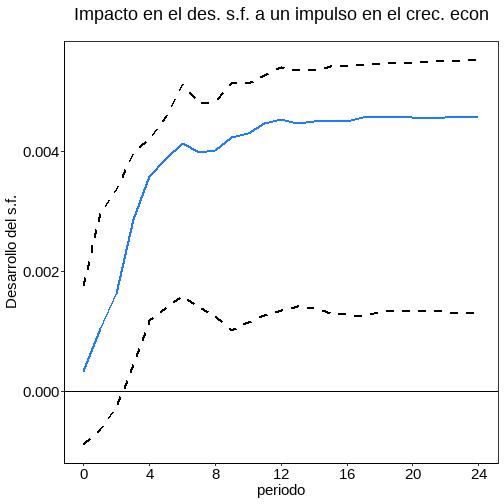
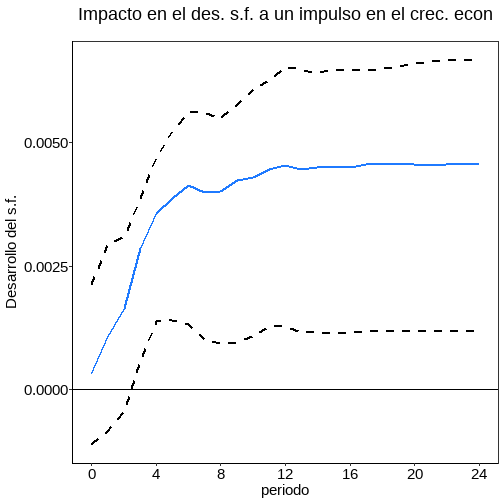
Actualizado el 5/1/2022

diff --git a/index.html b/index.html
@@ -41,7 +41,7 @@
 
 &lt;br&gt;
 
-&lt;p style="font-size:21pt; text-align:center; font-weight:bold"&gt; 
+&lt;p style="font-size:22pt; text-align:center; font-weight:bold"&gt; 
 
 Nexo entre crecimiento económico y desarrollo del sistema financiero: análisis de cointegración y series de tiempo para el caso de Costa Rica
 
@@ -49,7 +49,7 @@ Nexo entre crecimiento económico y desarrollo del sistema financiero: análisis
 
 &lt;br&gt;
 
-&lt;p style="font-size:21pt; text-align:center; font-weight:bold"&gt; 
+&lt;p style="font-size:18pt; text-align:center; font-weight:bold"&gt; 
 
 Trabajo final de investigación aplicada
 
@@ -57,7 +57,7 @@ Trabajo final de investigación aplicada
 
 &lt;br&gt;
 
-&lt;p style="font-size:21pt; text-align:center; font-weight:bold"&gt; 
+&lt;p style="font-size:18pt; text-align:center; font-weight:bold"&gt; 
 
 Posgrado en Estadística, Universidad de Costa Rica
 
@@ -65,7 +65,7 @@ Posgrado en Estadística, Universidad de Costa Rica
 
 &lt;br&gt;
 
-&lt;p style="font-size:21pt; text-align:center; font-weight:bold"&gt; 
+&lt;p style="font-size:18pt; text-align:center; font-weight:bold"&gt; 
 
 Estudiante: Fabián Brenes Trejos
 
@@ -73,7 +73,7 @@ Estudiante: Fabián Brenes Trejos
 
 &lt;br&gt;
 
-&lt;p style="font-size:21pt; text-align:center; font-weight:bold"&gt; 
+&lt;p style="font-size:18pt; text-align:center; font-weight:bold"&gt; 
 
 18/1/2022
 
@@ -117,8 +117,8 @@ class: inverse, center, middle
 
 .pull-right.w80[
 
-<div id="htmlwidget-925a281b201b351c2dd5" style="width:504px;height:400px;" class="grViz html-widget"></div>
-<script type="application/json" data-for="htmlwidget-925a281b201b351c2dd5">{"x":{"diagram":"digraph {\n  graph [layout = dot, rankdir = TB]\n  \n  node [shape = rectangle]        \n  rec1 [label = \"Imperfecciones de mercado\"]\n  rec2 [label = \"Mercados e intermediarios financieros\"]\n  rec3 [label =  \"Acumulación de capital\"]\n  rec4 [label = \"Innovación tecnológica\"]\n  rec5 [label = \"Crecimiento económico\"]\n  \n  # edge definitions with the node IDs\n  rec1 -> rec2 -> rec3 ; rec2 -> rec4; rec3 -> rec5; rec4 -> rec5 \n  }","config":{"engine":"dot","options":null}},"evals":[],"jsHooks":[]}</script>
+<div id="htmlwidget-ca953b2ce89cb85341ed" style="width:504px;height:400px;" class="grViz html-widget"></div>
+<script type="application/json" data-for="htmlwidget-ca953b2ce89cb85341ed">{"x":{"diagram":"digraph {\n  graph [layout = dot, rankdir = TB]\n  \n  node [shape = rectangle]        \n  rec1 [label = \"Imperfecciones de mercado\"]\n  rec2 [label = \"Mercados e intermediarios financieros\"]\n  rec3 [label =  \"Acumulación de capital\"]\n  rec4 [label = \"Innovación tecnológica\"]\n  rec5 [label = \"Crecimiento económico\"]\n  \n  # edge definitions with the node IDs\n  rec1 -> rec2 -> rec3 ; rec2 -> rec4; rec3 -> rec5; rec4 -> rec5 \n  }","config":{"engine":"dot","options":null}},"evals":[],"jsHooks":[]}</script>
 ]
 
 ---
@@ -139,14 +139,14 @@ class: inverse, center, middle
  
 --
 
-**¿Cuál es la relación entre el desarrollo del sistema financiero costarricense con respecto al crecimiento económico experimentado de 1997 a 2020?**
+**¿Cuál es la relación entre el desarrollo del sistema financiero costarricense con respecto al crecimiento económico experimentado de 2000 a 2020?**
 
 ---
 
 ## Objetivos
 
 ### General
-Estudiar la relación entre el desarrollo del sistema financiero y el crecimiento económico mediante modelos de series temporales multivariados, para el caso de Costa Rica, en el periodo 1997 - 2020.
+Estudiar la relación entre el desarrollo del sistema financiero y el crecimiento económico mediante modelos de series temporales multivariados, para el caso de Costa Rica, en el periodo 2000 - 2020.
 
 ### Específicos
 - .small[Conocer tendencias, valores atípicos y correlaciones mediante un análisis exploratorio.]
@@ -203,8 +203,8 @@ class: inverse, center, middle
 Cálculo: `\(log(PIB_t / PIB_{t-4})\)` 
 
 .pull-left.w60[
-<div id="htmlwidget-041003304e24d41058ee" style="width:432px;height:432px;" class="dygraphs html-widget"></div>
-<script type="application/json" data-for="htmlwidget-041003304e24d41058ee">{"x":{"attrs":{"axes":{"x":{"pixelsPerLabel":60,"drawGrid":false,"drawAxis":true},"y":{"drawGrid":false,"drawAxis":true}},"title":" ","labels":["quarter","Valor"],"legend":"auto","retainDateWindow":false,"xlabel":"Fecha","ylabel":"Crecimiento anual","colors":["#1f7aff","#1f7aff"],"series":{"Valor":{"axis":"y"}},"stackedGraph":false,"fillGraph":true,"fillAlpha":0.15,"stepPlot":false,"drawPoints":false,"pointSize":1,"drawGapEdgePoints":false,"connectSeparatedPoints":false,"strokeWidth":1,"strokeBorderColor":"white","colorValue":0.5,"colorSaturation":1,"includeZero":false,"drawAxesAtZero":false,"logscale":false,"axisTickSize":3,"axisLineColor":"black","axisLineWidth":1.5,"axisLabelColor":"black","axisLabelFontSize":14,"axisLabelWidth":60,"drawGrid":false,"gridLineWidth":0.3,"rightGap":5,"digitsAfterDecimal":2,"labelsKMB":false,"labelsKMG2":false,"labelsUTC":false,"maxNumberWidth":6,"animatedZooms":false,"mobileDisableYTouch":true,"disableZoom":false},"scale":"quarterly","annotations":[],"shadings":[],"events":[],"format":"date","data":[["2000-03-01T06:00:00.000Z","2000-06-01T06:00:00.000Z","2000-09-01T06:00:00.000Z","2000-12-01T06:00:00.000Z","2001-03-01T06:00:00.000Z","2001-06-01T06:00:00.000Z","2001-09-01T06:00:00.000Z","2001-12-01T06:00:00.000Z","2002-03-01T06:00:00.000Z","2002-06-01T06:00:00.000Z","2002-09-01T06:00:00.000Z","2002-12-01T06:00:00.000Z","2003-03-01T06:00:00.000Z","2003-06-01T06:00:00.000Z","2003-09-01T06:00:00.000Z","2003-12-01T06:00:00.000Z","2004-03-01T06:00:00.000Z","2004-06-01T06:00:00.000Z","2004-09-01T06:00:00.000Z","2004-12-01T06:00:00.000Z","2005-03-01T06:00:00.000Z","2005-06-01T06:00:00.000Z","2005-09-01T06:00:00.000Z","2005-12-01T06:00:00.000Z","2006-03-01T06:00:00.000Z","2006-06-01T05:00:00.000Z","2006-09-01T05:00:00.000Z","2006-12-01T06:00:00.000Z","2007-03-01T06:00:00.000Z","2007-06-01T06:00:00.000Z","2007-09-01T06:00:00.000Z","2007-12-01T06:00:00.000Z","2008-03-01T06:00:00.000Z","2008-06-01T06:00:00.000Z","2008-09-01T06:00:00.000Z","2008-12-01T06:00:00.000Z","2009-03-01T06:00:00.000Z","2009-06-01T06:00:00.000Z","2009-09-01T06:00:00.000Z","2009-12-01T06:00:00.000Z","2010-03-01T06:00:00.000Z","2010-06-01T06:00:00.000Z","2010-09-01T06:00:00.000Z","2010-12-01T06:00:00.000Z","2011-03-01T06:00:00.000Z","2011-06-01T06:00:00.000Z","2011-09-01T06:00:00.000Z","2011-12-01T06:00:00.000Z","2012-03-01T06:00:00.000Z","2012-06-01T06:00:00.000Z","2012-09-01T06:00:00.000Z","2012-12-01T06:00:00.000Z","2013-03-01T06:00:00.000Z","2013-06-01T06:00:00.000Z","2013-09-01T06:00:00.000Z","2013-12-01T06:00:00.000Z","2014-03-01T06:00:00.000Z","2014-06-01T06:00:00.000Z","2014-09-01T06:00:00.000Z","2014-12-01T06:00:00.000Z","2015-03-01T06:00:00.000Z","2015-06-01T06:00:00.000Z","2015-09-01T06:00:00.000Z","2015-12-01T06:00:00.000Z","2016-03-01T06:00:00.000Z","2016-06-01T06:00:00.000Z","2016-09-01T06:00:00.000Z","2016-12-01T06:00:00.000Z","2017-03-01T06:00:00.000Z","2017-06-01T06:00:00.000Z","2017-09-01T06:00:00.000Z","2017-12-01T06:00:00.000Z","2018-03-01T06:00:00.000Z","2018-06-01T06:00:00.000Z","2018-09-01T06:00:00.000Z","2018-12-01T06:00:00.000Z","2019-03-01T06:00:00.000Z","2019-06-01T06:00:00.000Z","2019-09-01T06:00:00.000Z","2019-12-01T06:00:00.000Z","2020-03-01T06:00:00.000Z","2020-06-01T06:00:00.000Z","2020-09-01T06:00:00.000Z","2020-12-01T06:00:00.000Z"],[0.0555031328497311,0.0340852651574372,0.0375225327601561,0.0250605058163897,0.0305712134029142,0.0360381827709156,0.0391086906519189,0.031920105662411,0.00944224898111074,0.0533996327676026,0.0379722624486041,0.0342773047916323,0.0512252051974938,0.0288064696455793,0.0423382613218026,0.0462223823596372,0.0448958386408601,0.0489176319677601,0.0389371482384529,0.0406086418035914,0.0236391484208017,0.0436987024960679,0.0452005497014935,0.043398091883498,0.0638826021509344,0.0596310455812643,0.0731398638011879,0.0849917859982343,0.0876020166145917,0.0889585499187627,0.0777855699677044,0.0627597471776392,0.0646850053131477,0.060741457403565,0.04683152754354,0.0141960732362769,-0.0216369424545055,-0.0248331020006494,-0.00685646139237853,0.0172818776152933,0.0512647674300891,0.0555979835930916,0.0560996880837821,0.0462560184101844,0.0427355796542678,0.0475105056149485,0.0382786651247894,0.0438139201946073,0.0643471483405367,0.0403375989767419,0.0442464535702716,0.0417307351703003,0.0116326467345857,0.0286239157923818,0.0332164119859926,0.0253310136427856,0.0447508753389382,0.0298930426970194,0.0303761361229909,0.0340552001539391,0.0211751209342673,0.0452790002670581,0.0469954676287476,0.0304633892760415,0.0425773580734688,0.0381303562566744,0.0344433098394769,0.0492527614234394,0.0452467110585429,0.047970196902605,0.0326403071550246,0.0371904372386399,0.0250298392705319,0.034071678325828,0.0225143885724031,0.000273574581100232,0.0205900808356099,0.00495792814088276,0.0192870289637419,0.040480732091904,0.00973491773381993,-0.0877811993952369,-0.0656499657080423,-0.0277586484455974]],"fixedtz":false,"tzone":""},"evals":[],"jsHooks":[]}</script>
+<div id="htmlwidget-abd5bf937ab78f9f2e94" style="width:432px;height:432px;" class="dygraphs html-widget"></div>
+<script type="application/json" data-for="htmlwidget-abd5bf937ab78f9f2e94">{"x":{"attrs":{"axes":{"x":{"pixelsPerLabel":60,"drawGrid":false,"drawAxis":true},"y":{"drawGrid":false,"drawAxis":true}},"title":" ","labels":["quarter","Valor"],"legend":"auto","retainDateWindow":false,"xlabel":"Fecha","ylabel":"Crecimiento anual","colors":["#1f7aff","#1f7aff"],"series":{"Valor":{"axis":"y"}},"stackedGraph":false,"fillGraph":true,"fillAlpha":0.15,"stepPlot":false,"drawPoints":false,"pointSize":1,"drawGapEdgePoints":false,"connectSeparatedPoints":false,"strokeWidth":1,"strokeBorderColor":"white","colorValue":0.5,"colorSaturation":1,"includeZero":false,"drawAxesAtZero":false,"logscale":false,"axisTickSize":3,"axisLineColor":"black","axisLineWidth":1.5,"axisLabelColor":"black","axisLabelFontSize":14,"axisLabelWidth":60,"drawGrid":false,"gridLineWidth":0.3,"rightGap":5,"digitsAfterDecimal":2,"labelsKMB":false,"labelsKMG2":false,"labelsUTC":false,"maxNumberWidth":6,"animatedZooms":false,"mobileDisableYTouch":true,"disableZoom":false},"scale":"quarterly","annotations":[],"shadings":[],"events":[],"format":"date","data":[["2000-03-01T06:00:00.000Z","2000-06-01T06:00:00.000Z","2000-09-01T06:00:00.000Z","2000-12-01T06:00:00.000Z","2001-03-01T06:00:00.000Z","2001-06-01T06:00:00.000Z","2001-09-01T06:00:00.000Z","2001-12-01T06:00:00.000Z","2002-03-01T06:00:00.000Z","2002-06-01T06:00:00.000Z","2002-09-01T06:00:00.000Z","2002-12-01T06:00:00.000Z","2003-03-01T06:00:00.000Z","2003-06-01T06:00:00.000Z","2003-09-01T06:00:00.000Z","2003-12-01T06:00:00.000Z","2004-03-01T06:00:00.000Z","2004-06-01T06:00:00.000Z","2004-09-01T06:00:00.000Z","2004-12-01T06:00:00.000Z","2005-03-01T06:00:00.000Z","2005-06-01T06:00:00.000Z","2005-09-01T06:00:00.000Z","2005-12-01T06:00:00.000Z","2006-03-01T06:00:00.000Z","2006-06-01T05:00:00.000Z","2006-09-01T05:00:00.000Z","2006-12-01T06:00:00.000Z","2007-03-01T06:00:00.000Z","2007-06-01T06:00:00.000Z","2007-09-01T06:00:00.000Z","2007-12-01T06:00:00.000Z","2008-03-01T06:00:00.000Z","2008-06-01T06:00:00.000Z","2008-09-01T06:00:00.000Z","2008-12-01T06:00:00.000Z","2009-03-01T06:00:00.000Z","2009-06-01T06:00:00.000Z","2009-09-01T06:00:00.000Z","2009-12-01T06:00:00.000Z","2010-03-01T06:00:00.000Z","2010-06-01T06:00:00.000Z","2010-09-01T06:00:00.000Z","2010-12-01T06:00:00.000Z","2011-03-01T06:00:00.000Z","2011-06-01T06:00:00.000Z","2011-09-01T06:00:00.000Z","2011-12-01T06:00:00.000Z","2012-03-01T06:00:00.000Z","2012-06-01T06:00:00.000Z","2012-09-01T06:00:00.000Z","2012-12-01T06:00:00.000Z","2013-03-01T06:00:00.000Z","2013-06-01T06:00:00.000Z","2013-09-01T06:00:00.000Z","2013-12-01T06:00:00.000Z","2014-03-01T06:00:00.000Z","2014-06-01T06:00:00.000Z","2014-09-01T06:00:00.000Z","2014-12-01T06:00:00.000Z","2015-03-01T06:00:00.000Z","2015-06-01T06:00:00.000Z","2015-09-01T06:00:00.000Z","2015-12-01T06:00:00.000Z","2016-03-01T06:00:00.000Z","2016-06-01T06:00:00.000Z","2016-09-01T06:00:00.000Z","2016-12-01T06:00:00.000Z","2017-03-01T06:00:00.000Z","2017-06-01T06:00:00.000Z","2017-09-01T06:00:00.000Z","2017-12-01T06:00:00.000Z","2018-03-01T06:00:00.000Z","2018-06-01T06:00:00.000Z","2018-09-01T06:00:00.000Z","2018-12-01T06:00:00.000Z","2019-03-01T06:00:00.000Z","2019-06-01T06:00:00.000Z","2019-09-01T06:00:00.000Z","2019-12-01T06:00:00.000Z","2020-03-01T06:00:00.000Z","2020-06-01T06:00:00.000Z","2020-09-01T06:00:00.000Z","2020-12-01T06:00:00.000Z"],[0.0555031328497311,0.0340852651574372,0.0375225327601561,0.0250605058163897,0.0305712134029142,0.0360381827709156,0.0391086906519189,0.031920105662411,0.00944224898111074,0.0533996327676026,0.0379722624486041,0.0342773047916323,0.0512252051974938,0.0288064696455793,0.0423382613218026,0.0462223823596372,0.0448958386408601,0.0489176319677601,0.0389371482384529,0.0406086418035914,0.0236391484208017,0.0436987024960679,0.0452005497014935,0.043398091883498,0.0638826021509344,0.0596310455812643,0.0731398638011879,0.0849917859982343,0.0876020166145917,0.0889585499187627,0.0777855699677044,0.0627597471776392,0.0646850053131477,0.060741457403565,0.04683152754354,0.0141960732362769,-0.0216369424545055,-0.0248331020006494,-0.00685646139237853,0.0172818776152933,0.0512647674300891,0.0555979835930916,0.0560996880837821,0.0462560184101844,0.0427355796542678,0.0475105056149485,0.0382786651247894,0.0438139201946073,0.0643471483405367,0.0403375989767419,0.0442464535702716,0.0417307351703003,0.0116326467345857,0.0286239157923818,0.0332164119859926,0.0253310136427856,0.0447508753389382,0.0298930426970194,0.0303761361229909,0.0340552001539391,0.0211751209342673,0.0452790002670581,0.0469954676287476,0.0304633892760415,0.0425773580734688,0.0381303562566744,0.0344433098394769,0.0492527614234394,0.0452467110585429,0.047970196902605,0.0326403071550246,0.0371904372386399,0.0250298392705319,0.034071678325828,0.0225143885724031,0.000273574581100232,0.0205900808356099,0.00495792814088276,0.0192870289637419,0.040480732091904,0.00973491773381993,-0.0877811993952369,-0.0656499657080423,-0.0277586484455974]],"fixedtz":false,"tzone":""},"evals":[],"jsHooks":[]}</script>
 ]
 
 .pull-right.w40[
@@ -273,8 +273,8 @@ Cálculo: `\(log(PIB_t / PIB_{t-4})\)`
 Cálculo: `\(\mbox{Créditos al sector privado no financiero} / \mbox{PIB nominal}\)`
 
 .pull-left.w60[
-<div id="htmlwidget-6d1871bc19447a92a60e" style="width:432px;height:432px;" class="dygraphs html-widget"></div>
-<script type="application/json" data-for="htmlwidget-6d1871bc19447a92a60e">{"x":{"attrs":{"axes":{"x":{"pixelsPerLabel":60,"drawGrid":false,"drawAxis":true},"y":{"drawGrid":false,"drawAxis":true}},"title":" ","labels":["quarter","Valor"],"legend":"auto","retainDateWindow":false,"xlabel":"Fecha","ylabel":"Términos del PIB","colors":["#1f7aff","#1f7aff"],"series":{"Valor":{"axis":"y"}},"stackedGraph":false,"fillGraph":true,"fillAlpha":0.15,"stepPlot":false,"drawPoints":false,"pointSize":1,"drawGapEdgePoints":false,"connectSeparatedPoints":false,"strokeWidth":1,"strokeBorderColor":"white","colorValue":0.5,"colorSaturation":1,"includeZero":false,"drawAxesAtZero":false,"logscale":false,"axisTickSize":3,"axisLineColor":"black","axisLineWidth":1.5,"axisLabelColor":"black","axisLabelFontSize":14,"axisLabelWidth":60,"drawGrid":false,"gridLineWidth":0.3,"rightGap":5,"digitsAfterDecimal":2,"labelsKMB":false,"labelsKMG2":false,"labelsUTC":false,"maxNumberWidth":6,"animatedZooms":false,"mobileDisableYTouch":true,"disableZoom":false},"scale":"quarterly","annotations":[],"shadings":[],"events":[],"format":"date","data":[["2000-03-01T06:00:00.000Z","2000-06-01T06:00:00.000Z","2000-09-01T06:00:00.000Z","2000-12-01T06:00:00.000Z","2001-03-01T06:00:00.000Z","2001-06-01T06:00:00.000Z","2001-09-01T06:00:00.000Z","2001-12-01T06:00:00.000Z","2002-03-01T06:00:00.000Z","2002-06-01T06:00:00.000Z","2002-09-01T06:00:00.000Z","2002-12-01T06:00:00.000Z","2003-03-01T06:00:00.000Z","2003-06-01T06:00:00.000Z","2003-09-01T06:00:00.000Z","2003-12-01T06:00:00.000Z","2004-03-01T06:00:00.000Z","2004-06-01T06:00:00.000Z","2004-09-01T06:00:00.000Z","2004-12-01T06:00:00.000Z","2005-03-01T06:00:00.000Z","2005-06-01T06:00:00.000Z","2005-09-01T06:00:00.000Z","2005-12-01T06:00:00.000Z","2006-03-01T06:00:00.000Z","2006-06-01T05:00:00.000Z","2006-09-01T05:00:00.000Z","2006-12-01T06:00:00.000Z","2007-03-01T06:00:00.000Z","2007-06-01T06:00:00.000Z","2007-09-01T06:00:00.000Z","2007-12-01T06:00:00.000Z","2008-03-01T06:00:00.000Z","2008-06-01T06:00:00.000Z","2008-09-01T06:00:00.000Z","2008-12-01T06:00:00.000Z","2009-03-01T06:00:00.000Z","2009-06-01T06:00:00.000Z","2009-09-01T06:00:00.000Z","2009-12-01T06:00:00.000Z","2010-03-01T06:00:00.000Z","2010-06-01T06:00:00.000Z","2010-09-01T06:00:00.000Z","2010-12-01T06:00:00.000Z","2011-03-01T06:00:00.000Z","2011-06-01T06:00:00.000Z","2011-09-01T06:00:00.000Z","2011-12-01T06:00:00.000Z","2012-03-01T06:00:00.000Z","2012-06-01T06:00:00.000Z","2012-09-01T06:00:00.000Z","2012-12-01T06:00:00.000Z","2013-03-01T06:00:00.000Z","2013-06-01T06:00:00.000Z","2013-09-01T06:00:00.000Z","2013-12-01T06:00:00.000Z","2014-03-01T06:00:00.000Z","2014-06-01T06:00:00.000Z","2014-09-01T06:00:00.000Z","2014-12-01T06:00:00.000Z","2015-03-01T06:00:00.000Z","2015-06-01T06:00:00.000Z","2015-09-01T06:00:00.000Z","2015-12-01T06:00:00.000Z","2016-03-01T06:00:00.000Z","2016-06-01T06:00:00.000Z","2016-09-01T06:00:00.000Z","2016-12-01T06:00:00.000Z","2017-03-01T06:00:00.000Z","2017-06-01T06:00:00.000Z","2017-09-01T06:00:00.000Z","2017-12-01T06:00:00.000Z","2018-03-01T06:00:00.000Z","2018-06-01T06:00:00.000Z","2018-09-01T06:00:00.000Z","2018-12-01T06:00:00.000Z","2019-03-01T06:00:00.000Z","2019-06-01T06:00:00.000Z","2019-09-01T06:00:00.000Z","2019-12-01T06:00:00.000Z","2020-03-01T06:00:00.000Z","2020-06-01T06:00:00.000Z","2020-09-01T06:00:00.000Z","2020-12-01T06:00:00.000Z"],[0.230378648075666,0.237973453308749,0.242977159790301,0.2568427499582,0.258572611798459,0.260011496149267,0.267181927915628,0.280375921723559,0.287870727314153,0.290839654180241,0.294797991840939,0.301863107027012,0.302392439868491,0.299575118755793,0.302325377012957,0.313561801792717,0.30628105943671,0.307754654854595,0.311237113879137,0.314771631837043,0.316900039574181,0.324859939460102,0.335317063398018,0.349556386205428,0.347815681806583,0.35247477156393,0.361181281915219,0.370794818649053,0.373747922006069,0.385333719174933,0.403649557210522,0.42990212027872,0.435399967056724,0.452513379116934,0.467316096193382,0.484733676800351,0.47645602879295,0.474823686545473,0.475323762546019,0.465467826099637,0.434626746793206,0.433092772935486,0.424783176320921,0.432767742402862,0.427216072587495,0.431667810013627,0.443917313503859,0.448028434357952,0.446375459317764,0.447367043340583,0.453110146826016,0.465073382166462,0.460445656125026,0.462495289561365,0.470288451028715,0.487248712857523,0.507749725077048,0.511096074567346,0.512698016310646,0.52087022727588,0.51796365008433,0.521369383602982,0.529591696521589,0.540840216224972,0.540961639840296,0.554790276579621,0.565316224888378,0.574100129259365,0.57567679489889,0.583557930022849,0.581535312834093,0.581068532849791,0.572532021907671,0.56973769258699,0.578734231290818,0.58849367843833,0.575042233017076,0.562586277073408,0.555495134972149,0.550263733401138,0.552836520423679,0.562583413080146,0.578584905313051,0.588884101766211]],"fixedtz":false,"tzone":""},"evals":[],"jsHooks":[]}</script>
+<div id="htmlwidget-add6f032cd56900fe8ea" style="width:432px;height:432px;" class="dygraphs html-widget"></div>
+<script type="application/json" data-for="htmlwidget-add6f032cd56900fe8ea">{"x":{"attrs":{"axes":{"x":{"pixelsPerLabel":60,"drawGrid":false,"drawAxis":true},"y":{"drawGrid":false,"drawAxis":true}},"title":" ","labels":["quarter","Valor"],"legend":"auto","retainDateWindow":false,"xlabel":"Fecha","ylabel":"Términos del PIB","colors":["#1f7aff","#1f7aff"],"series":{"Valor":{"axis":"y"}},"stackedGraph":false,"fillGraph":true,"fillAlpha":0.15,"stepPlot":false,"drawPoints":false,"pointSize":1,"drawGapEdgePoints":false,"connectSeparatedPoints":false,"strokeWidth":1,"strokeBorderColor":"white","colorValue":0.5,"colorSaturation":1,"includeZero":false,"drawAxesAtZero":false,"logscale":false,"axisTickSize":3,"axisLineColor":"black","axisLineWidth":1.5,"axisLabelColor":"black","axisLabelFontSize":14,"axisLabelWidth":60,"drawGrid":false,"gridLineWidth":0.3,"rightGap":5,"digitsAfterDecimal":2,"labelsKMB":false,"labelsKMG2":false,"labelsUTC":false,"maxNumberWidth":6,"animatedZooms":false,"mobileDisableYTouch":true,"disableZoom":false},"scale":"quarterly","annotations":[],"shadings":[],"events":[],"format":"date","data":[["2000-03-01T06:00:00.000Z","2000-06-01T06:00:00.000Z","2000-09-01T06:00:00.000Z","2000-12-01T06:00:00.000Z","2001-03-01T06:00:00.000Z","2001-06-01T06:00:00.000Z","2001-09-01T06:00:00.000Z","2001-12-01T06:00:00.000Z","2002-03-01T06:00:00.000Z","2002-06-01T06:00:00.000Z","2002-09-01T06:00:00.000Z","2002-12-01T06:00:00.000Z","2003-03-01T06:00:00.000Z","2003-06-01T06:00:00.000Z","2003-09-01T06:00:00.000Z","2003-12-01T06:00:00.000Z","2004-03-01T06:00:00.000Z","2004-06-01T06:00:00.000Z","2004-09-01T06:00:00.000Z","2004-12-01T06:00:00.000Z","2005-03-01T06:00:00.000Z","2005-06-01T06:00:00.000Z","2005-09-01T06:00:00.000Z","2005-12-01T06:00:00.000Z","2006-03-01T06:00:00.000Z","2006-06-01T05:00:00.000Z","2006-09-01T05:00:00.000Z","2006-12-01T06:00:00.000Z","2007-03-01T06:00:00.000Z","2007-06-01T06:00:00.000Z","2007-09-01T06:00:00.000Z","2007-12-01T06:00:00.000Z","2008-03-01T06:00:00.000Z","2008-06-01T06:00:00.000Z","2008-09-01T06:00:00.000Z","2008-12-01T06:00:00.000Z","2009-03-01T06:00:00.000Z","2009-06-01T06:00:00.000Z","2009-09-01T06:00:00.000Z","2009-12-01T06:00:00.000Z","2010-03-01T06:00:00.000Z","2010-06-01T06:00:00.000Z","2010-09-01T06:00:00.000Z","2010-12-01T06:00:00.000Z","2011-03-01T06:00:00.000Z","2011-06-01T06:00:00.000Z","2011-09-01T06:00:00.000Z","2011-12-01T06:00:00.000Z","2012-03-01T06:00:00.000Z","2012-06-01T06:00:00.000Z","2012-09-01T06:00:00.000Z","2012-12-01T06:00:00.000Z","2013-03-01T06:00:00.000Z","2013-06-01T06:00:00.000Z","2013-09-01T06:00:00.000Z","2013-12-01T06:00:00.000Z","2014-03-01T06:00:00.000Z","2014-06-01T06:00:00.000Z","2014-09-01T06:00:00.000Z","2014-12-01T06:00:00.000Z","2015-03-01T06:00:00.000Z","2015-06-01T06:00:00.000Z","2015-09-01T06:00:00.000Z","2015-12-01T06:00:00.000Z","2016-03-01T06:00:00.000Z","2016-06-01T06:00:00.000Z","2016-09-01T06:00:00.000Z","2016-12-01T06:00:00.000Z","2017-03-01T06:00:00.000Z","2017-06-01T06:00:00.000Z","2017-09-01T06:00:00.000Z","2017-12-01T06:00:00.000Z","2018-03-01T06:00:00.000Z","2018-06-01T06:00:00.000Z","2018-09-01T06:00:00.000Z","2018-12-01T06:00:00.000Z","2019-03-01T06:00:00.000Z","2019-06-01T06:00:00.000Z","2019-09-01T06:00:00.000Z","2019-12-01T06:00:00.000Z","2020-03-01T06:00:00.000Z","2020-06-01T06:00:00.000Z","2020-09-01T06:00:00.000Z","2020-12-01T06:00:00.000Z"],[0.230378648075666,0.237973453308749,0.242977159790301,0.2568427499582,0.258572611798459,0.260011496149267,0.267181927915628,0.280375921723559,0.287870727314153,0.290839654180241,0.294797991840939,0.301863107027012,0.302392439868491,0.299575118755793,0.302325377012957,0.313561801792717,0.30628105943671,0.307754654854595,0.311237113879137,0.314771631837043,0.316900039574181,0.324859939460102,0.335317063398018,0.349556386205428,0.347815681806583,0.35247477156393,0.361181281915219,0.370794818649053,0.373747922006069,0.385333719174933,0.403649557210522,0.42990212027872,0.435399967056724,0.452513379116934,0.467316096193382,0.484733676800351,0.47645602879295,0.474823686545473,0.475323762546019,0.465467826099637,0.434626746793206,0.433092772935486,0.424783176320921,0.432767742402862,0.427216072587495,0.431667810013627,0.443917313503859,0.448028434357952,0.446375459317764,0.447367043340583,0.453110146826016,0.465073382166462,0.460445656125026,0.462495289561365,0.470288451028715,0.487248712857523,0.507749725077048,0.511096074567346,0.512698016310646,0.52087022727588,0.51796365008433,0.521369383602982,0.529591696521589,0.540840216224972,0.540961639840296,0.554790276579621,0.565316224888378,0.574100129259365,0.57567679489889,0.583557930022849,0.581535312834093,0.581068532849791,0.572532021907671,0.56973769258699,0.578734231290818,0.58849367843833,0.575042233017076,0.562586277073408,0.555495134972149,0.550263733401138,0.552836520423679,0.562583413080146,0.578584905313051,0.588884101766211]],"fixedtz":false,"tzone":""},"evals":[],"jsHooks":[]}</script>
 ]
 .pull-right.w40[
 &lt;table class=" lightable-classic lightable-hover" style='font-size: 12px; font-family: "Arial Narrow", "Source Sans Pro", sans-serif; width: auto !important; margin-left: auto; margin-right: auto;'&gt;
@@ -470,6 +470,7 @@ Se define que una variable `\(Y_t\)` causa `\(X_t\)`, si la predicción de `\(X_
 En donde: 
 + `\(U\)`: Representa toda la información disponible. 
 + `\(\overline{Y}\)`: Valores pasados de `\(Y\)`. 
++ `\(\overline{U-Y}\)`: Toda la información disponible pasada ( `\(\overline{U}\)` ) menos la información pasada de `\(Y\)`.
 
 ---
 
